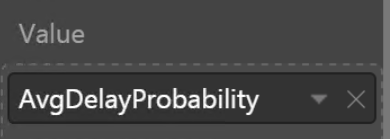
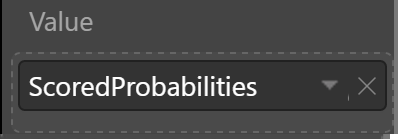
Cleaning up the Power BI Scenario to match the new table.

Changed region(s): [[0.0, 0.0, 1.0, 1.0], [0.8, 0.6619, 0.8615, 0.7482], [0.8, 0.5755, 0.8615, 0.6331]]

diff --git a/05_Exercise_5_-_Visualizing_in_Power_BI_Desktop.md b/05_Exercise_5_-_Visualizing_in_Power_BI_Desktop.md
@@ -7,7 +7,7 @@ Synopsis: In this exercise, attendees will construct a report in Power BI Deskto
 This exercise has 4 tasks:
 
 * [Task 1: Connect to the Azure SQL Database Using Power BI Desktop](#task-1-connect-to-the-azure-sql-dataabse-using-power-bi-desktop)
-* [Task 3: Create Power BI Report](#task-3-create-power-bi-report)
+* [Task 2: Create Power BI Report](#task-2-create-power-bi-report)
 
 ## Task 1: Connect to the Azure SQL Database Using Power BI Desktop
 
@@ -43,9 +43,9 @@ This exercise has 4 tasks:
 
     ![Screenshot](images/create_power_bi_report_1.png)
 
-1. With the Map visualization still selected, in the **Fields** area at right, expand the tabled called **flightdelayssummary**.
+1. With the Map visualization still selected, in the **Fields** area at right, expand the tabled called **ScoredFlightData**.
 
-    ![Screenshot](images/create_power_bi_report_2.png)
+    ![Screenshot](images/create_power_bi_report_0.png)
 
 1. Click and drag the field labeled **OriginLatLong** and drop it into the **Location** field located just below visualizations.
 
@@ -64,7 +64,7 @@ This exercise has 4 tasks:
 
     ![Screenshot](images/create_power_bi_report_6.png)
 
-1. With the **Stacked Column Chart** visualization still selected, in the Fields area at right, expand the tabled called **flightdelayssummary**.
+1. With the **Stacked Column Chart** visualization still selected, in the Fields area at right, expand the tabled called **ScoredFlightData**.
 
     ![Screenshot](images/create_power_bi_report_7.png)
 
@@ -86,7 +86,7 @@ This exercise has 4 tasks:
 
     ![Screenshot](images/create_power_bi_report_11.png)
 
-1. With the **Treemap** visualization still selected, in the Fields area at right, expand the tabled called **flightdelayssummary**.
+1. With the **Treemap** visualization still selected, in the Fields area at right, expand the tabled called **ScoredFlightData**.
 
     ![Screenshot](images/create_power_bi_report_12.png)
 
@@ -108,4 +108,4 @@ This exercise has 4 tasks:
 
 1. You can save this Power BI report by click on Save icon from the top left corner of the screen.
 
-Next Exercise: [Exercise 7 - Deploy Intelligent Web App](07_Exercise_7_-_Deploy_Intelligent_Web_App.md)
+Next Exercise: [Exercise 6 - Cleanup of Azure Resources](06_Exercise_6_-_Cleanup_of_Azure_Resources.md)
